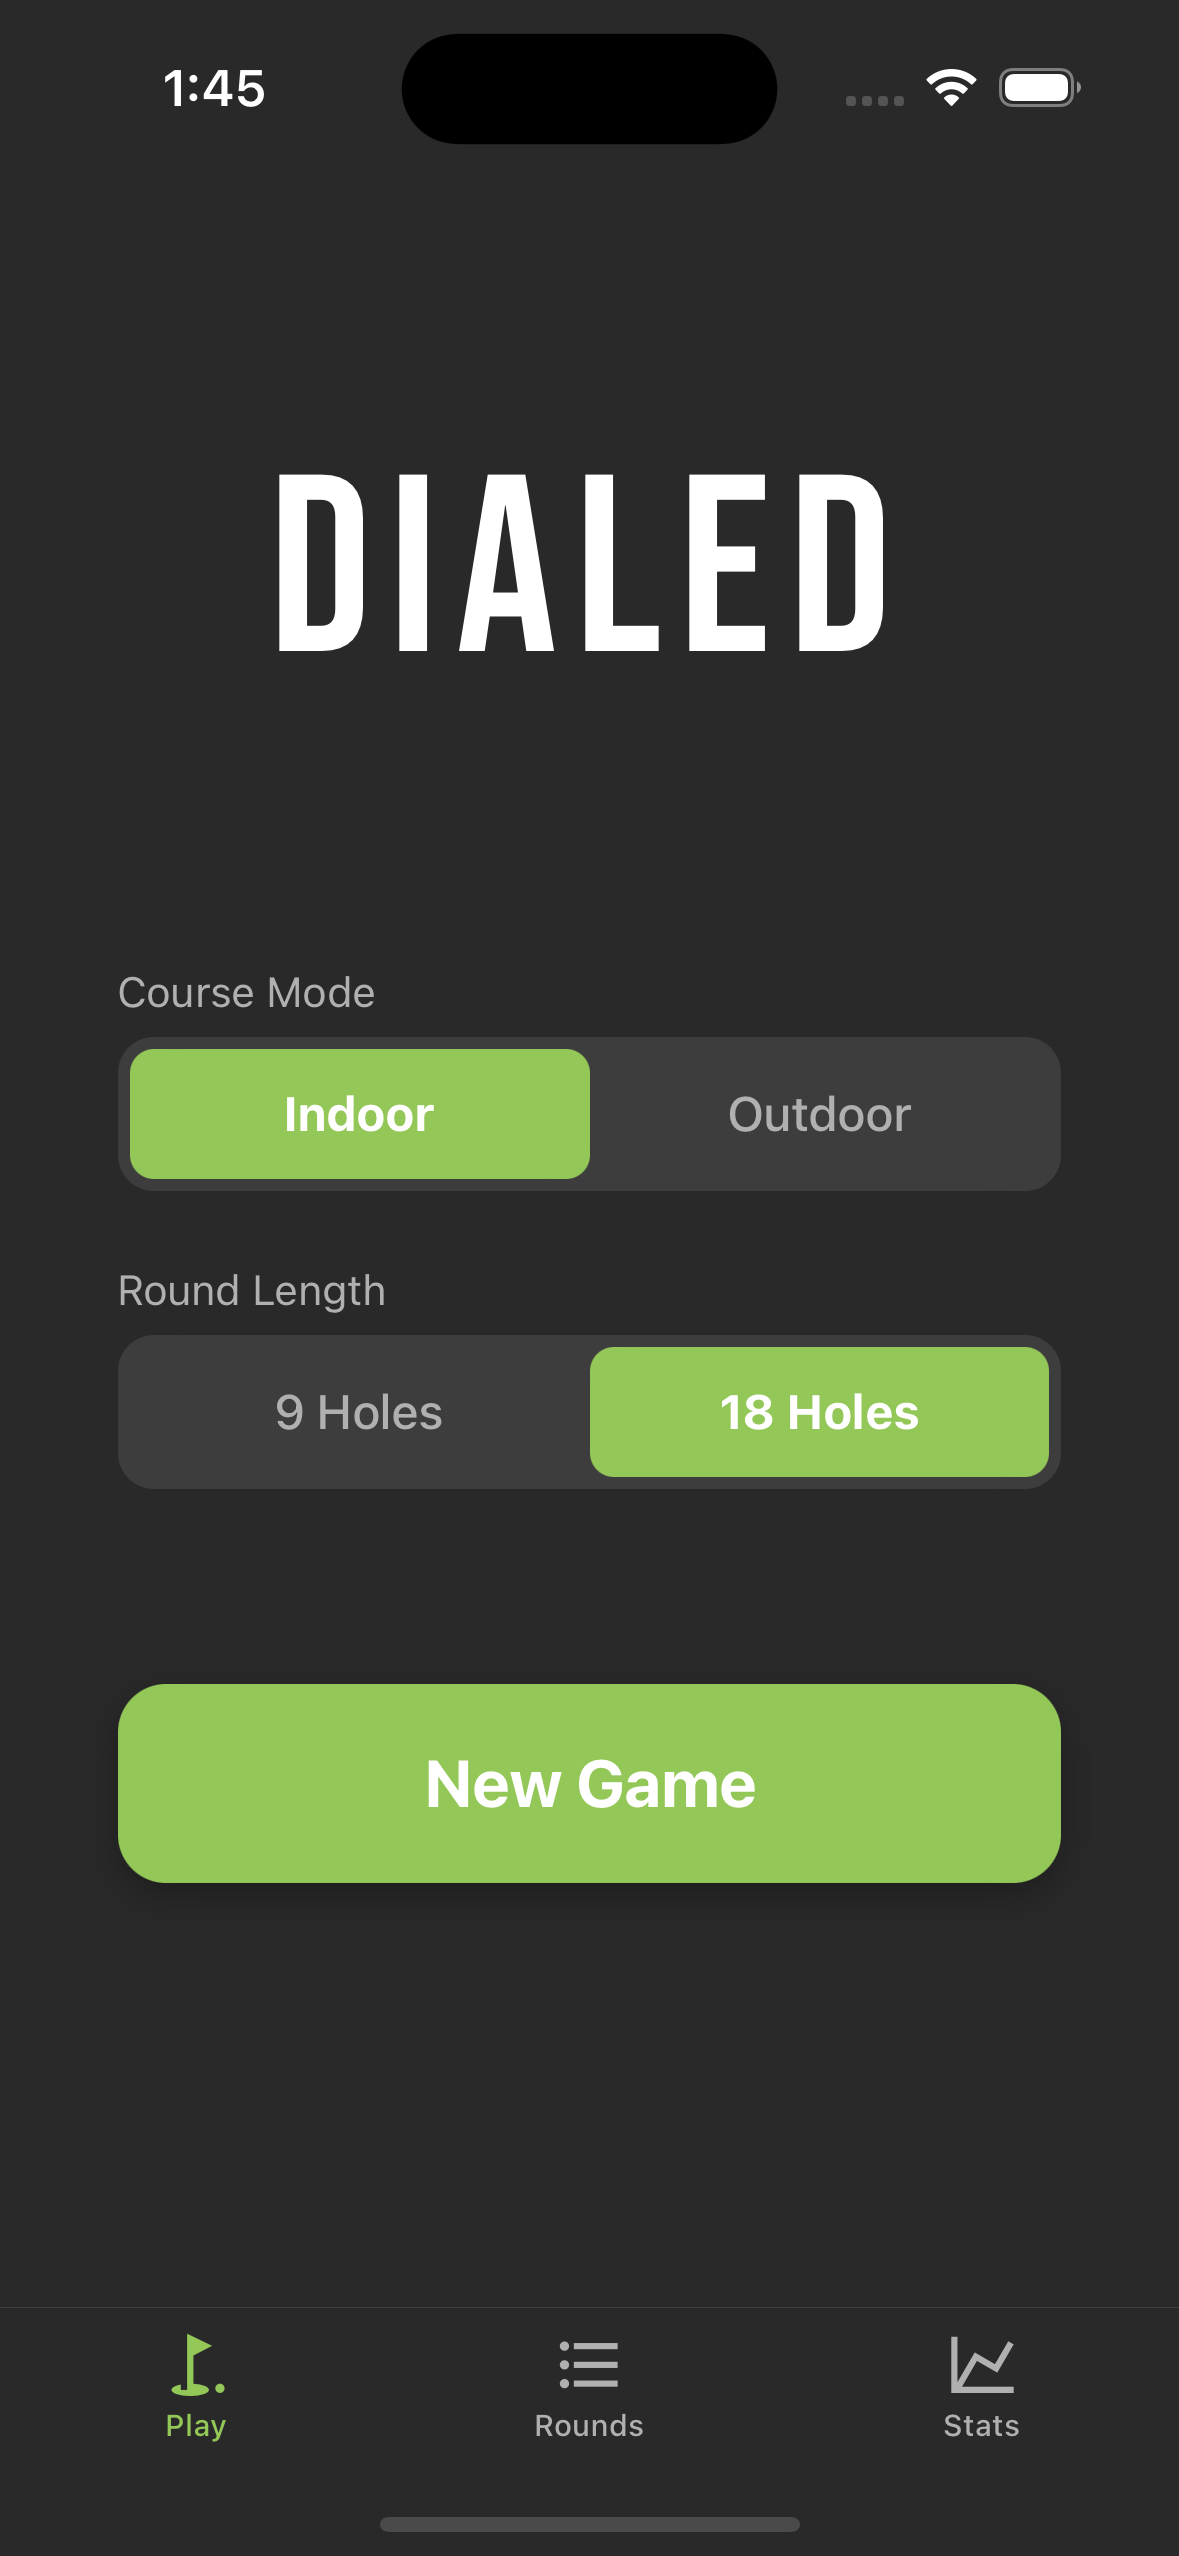
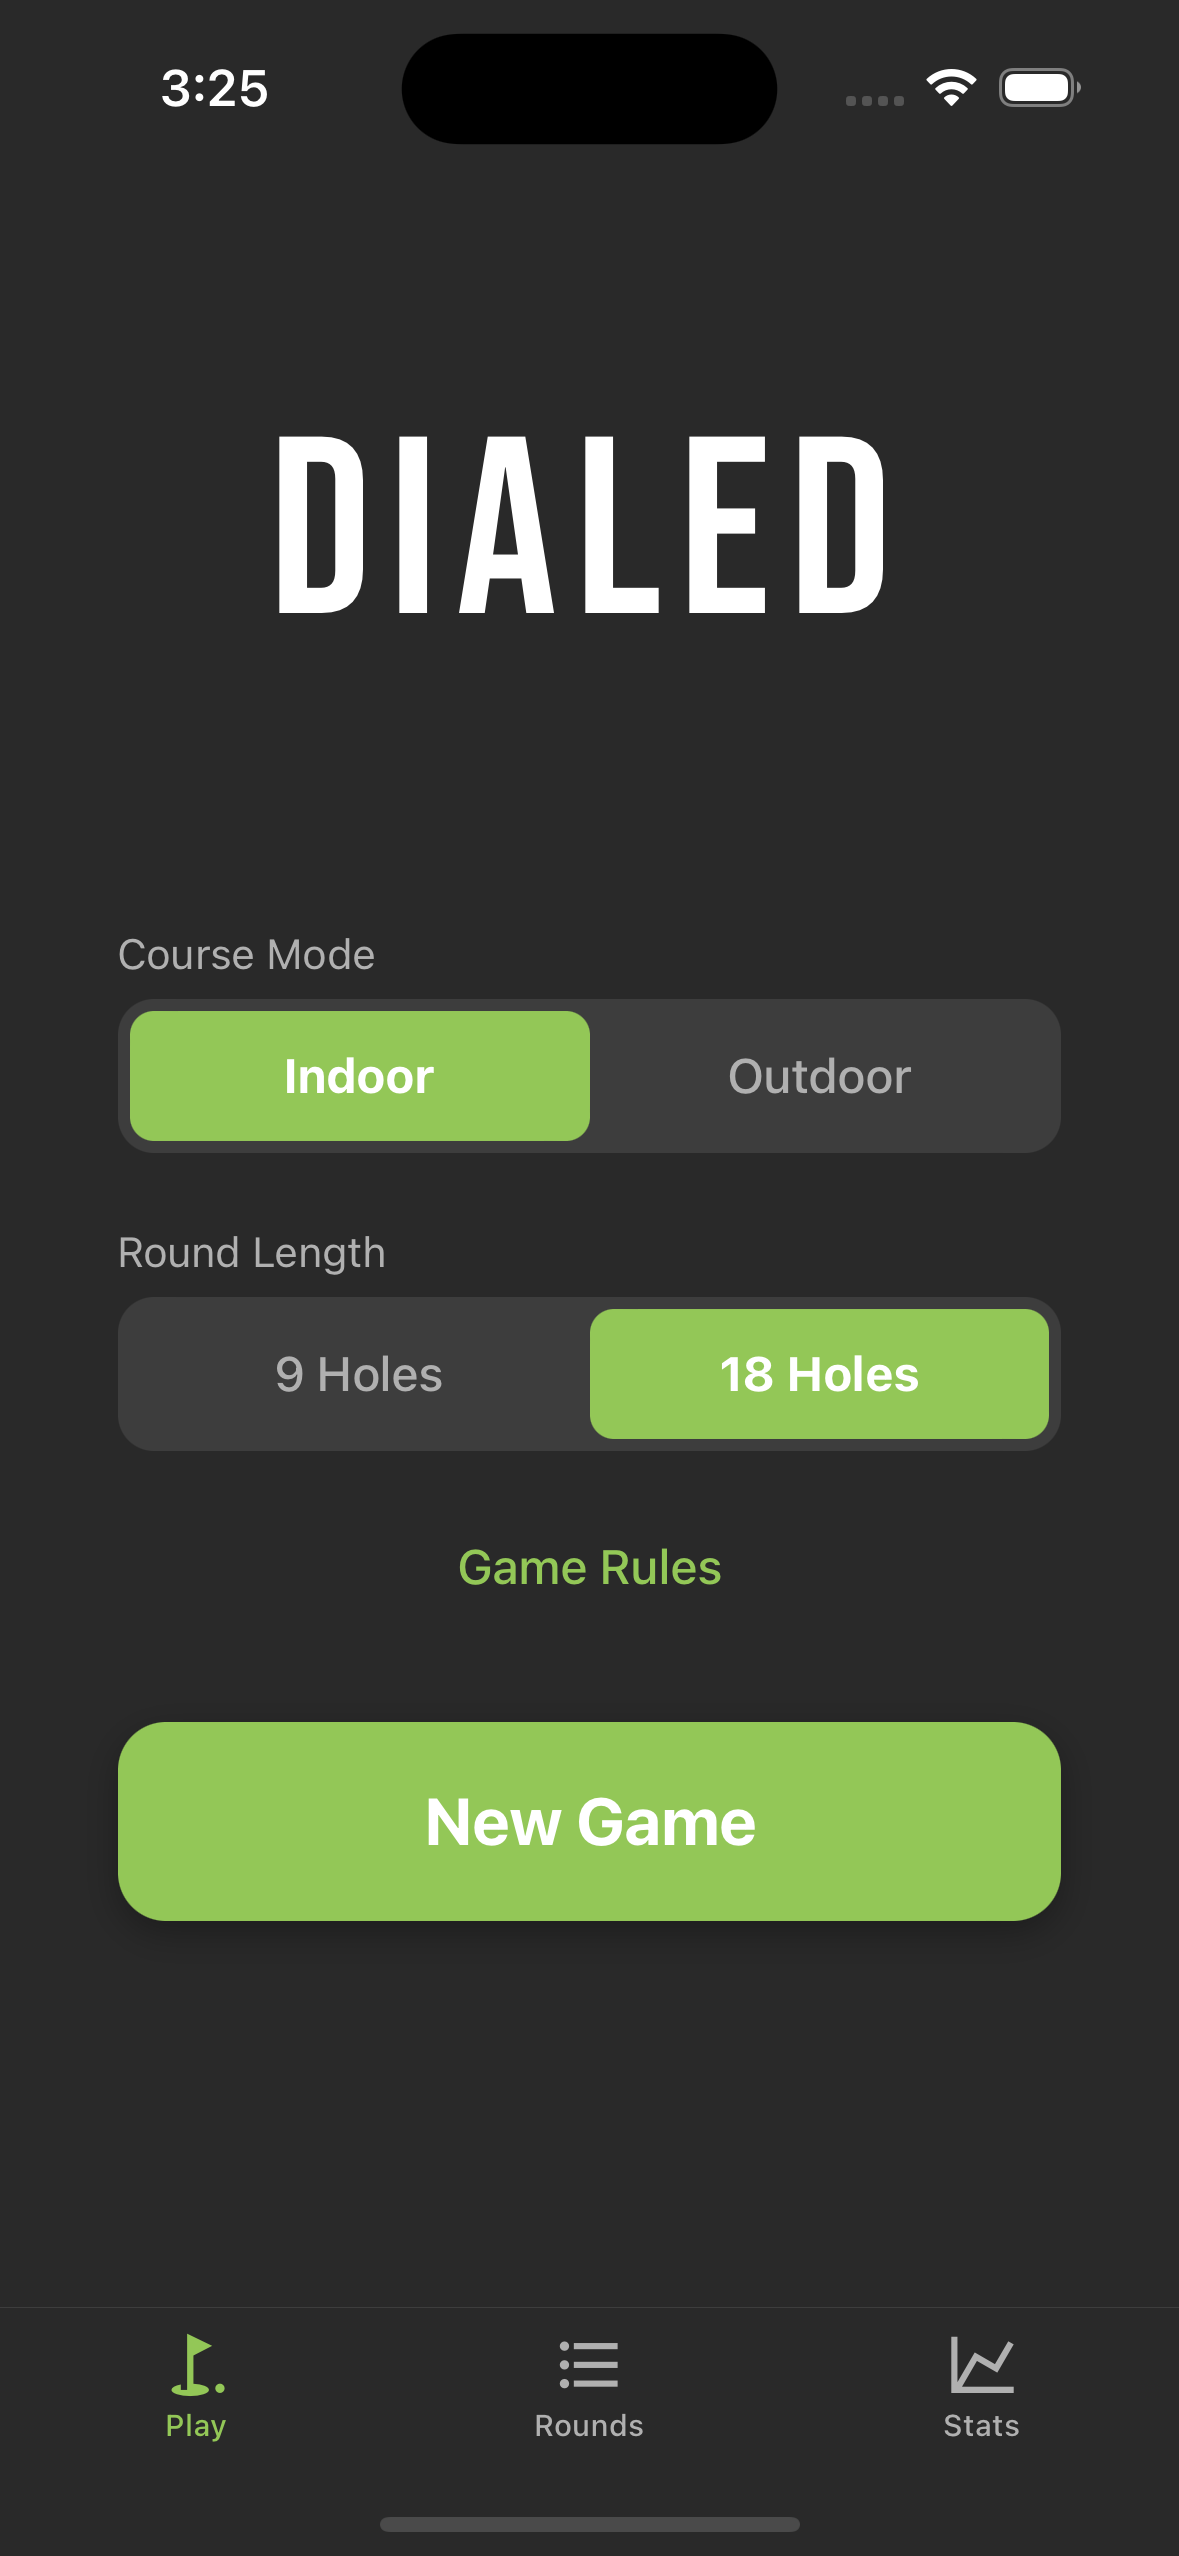
updated screenshots

diff --git a/screenshots/README.md b/screenshots/README.md
@@ -4,7 +4,9 @@ Here are screenshots of various screens in the Dialed putting game app.
 
 ## Home Screen
 
-<img src="./home.png" width="300" alt="Home Screen">
+|                     Home Screen                      |                        Game Rules                         |
+| :--------------------------------------------------: | :-------------------------------------------------------: |
+| <img src="./home.png" width="300" alt="Home Screen"> | <img src="./game-rules.png" width="300" alt="Game Rules"> |
 
 ## Course Preview
 
